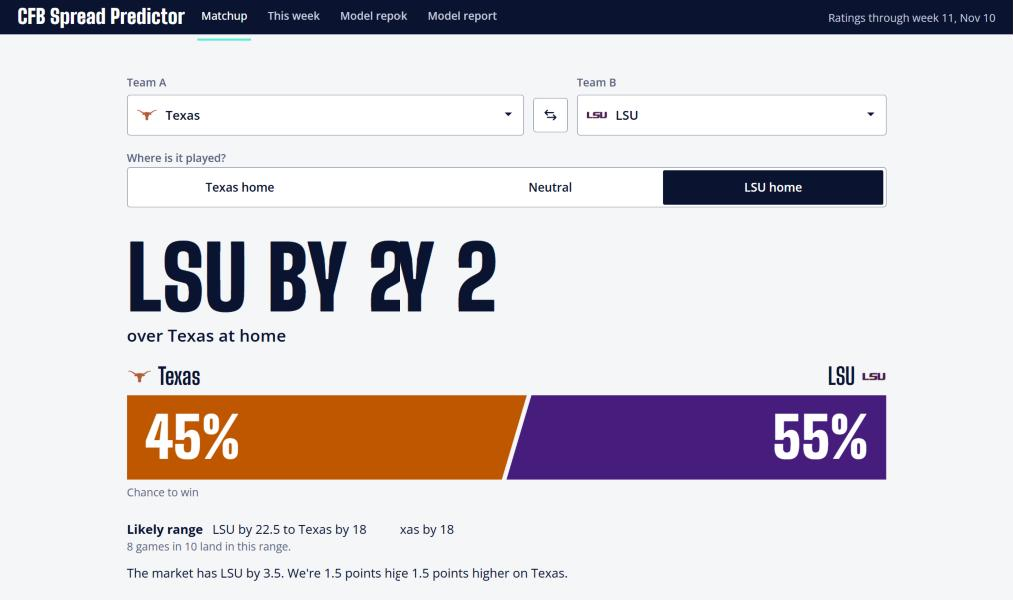
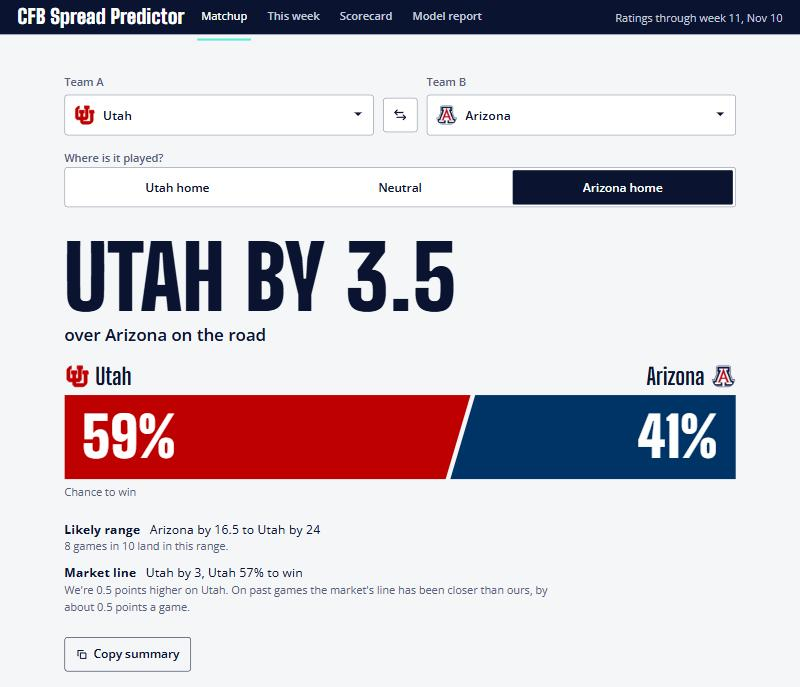
Retake the README screenshots with Utah at Arizona
The old ones were stitched from two captures and had visible seams.

Claude-Session: https://claude.ai/code/session_01PiGsyNaUNnucjZGJCXxBFm

Changed region(s): [[0.0625, 0.09, 0.9375, 0.99], [0.0, 0.0, 1.0, 0.09], [0.625, 0.24, 0.9375, 0.36]]

diff --git a/README.md b/README.md
@@ -14,17 +14,17 @@ The number is a blend of five rating systems: four public ones (SP+, FPI, SRS
 and Elo) and our own Power rating, built from game scores and success rate. The app shows where
 each one lands, so you can see when they disagree.
 
-![The Matchup tab: LSU by 2 over Texas, with a band in the two team colors showing each team's chance to win](docs/img/matchup.png)
+![The Matchup tab for Utah at Arizona: Utah by 3.5, a band in the two team colors showing each team's chance to win, the likely range, and the market line under it](docs/img/matchup.png)
 
 Under the answer, the app shows where each rating system lands, so
 disagreement is easy to see.
 
-![Where the models land: one dot per rating system on a shared scale, with the blend marked](docs/img/models.png)
+![Where the models land for Utah at Arizona: one dot per rating system on a shared scale with the blend marked, and a table of each system's ratings and margin](docs/img/models.png)
 
 The This week tab lists every game, sorted by how far our number is from the
 market's.
 
-![The This week tab: a table of games with our line, the market line and the difference](docs/img/this-week.png)
+![The This week tab: a table of games with our line, the market line, the difference and the home team's win chance](docs/img/this-week.png)
 
 The Scorecard tab keeps the model honest. Every week, before the first
 kickoff, the app's line for every game is saved and never changed. Once the
